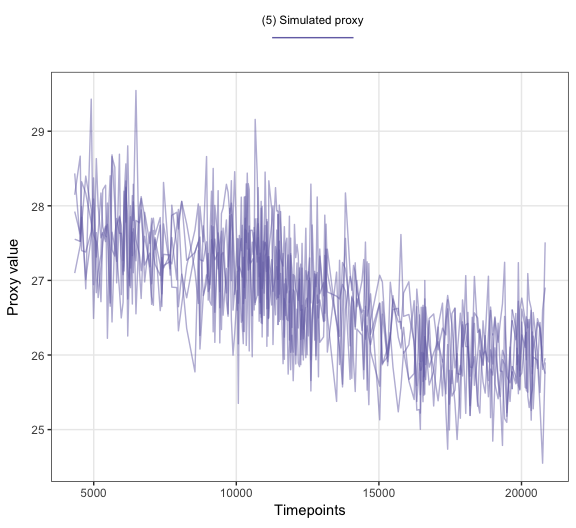
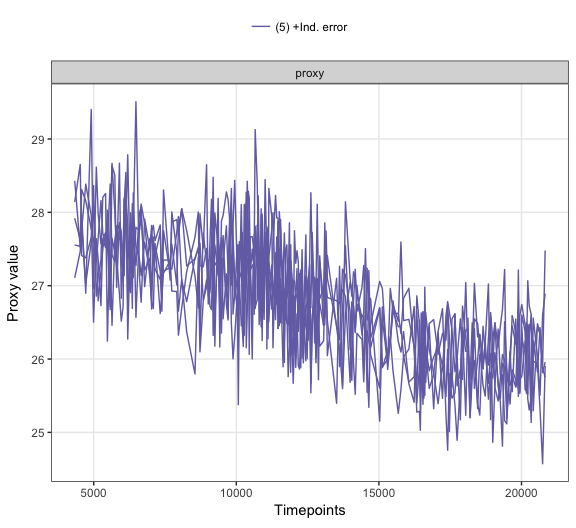
replace meas.noise with sigma.measurement and sigma.individual

diff --git a/readme.md b/readme.md
@@ -160,7 +160,9 @@ PFM <- ClimToProxyClim(clim.signal = clim.in,
                        proxy.calibration.type = "identity",
                        proxy.prod.weights = N41.G.ruber.seasonality,
                        sed.acc.rate = N41.proxy$Sed.acc.rate.cm.ka,
-                       meas.noise = 0.46, n.samples = 30,
+                       sigma.measurement = 0.45,
+                       sigma.individual = 0,
+                       n.samples = 30,
                        n.replicates = 10)
 ```
 
@@ -171,20 +173,20 @@ PFM$everything
 ```
 
 ```
-## # A tibble: 11,885 x 9
-##    timepoints replicate stage    value label  description       plot.order
-##         <dbl>     <dbl> <chr>    <dbl> <chr>  <chr>                  <dbl>
-##  1       4334      1.00 proxy.… 0.0251 (4) +… Climate signal a…       7.00
-##  2       4527      1.00 proxy.… 0.0251 (4) +… Climate signal a…       7.00
-##  3       4576      1.00 proxy.… 0.0251 (4) +… Climate signal a…       7.00
-##  4       4721      1.00 proxy.… 0.0251 (4) +… Climate signal a…       7.00
-##  5       4914      1.00 proxy.… 0.0251 (4) +… Climate signal a…       7.00
-##  6       4994      1.00 proxy.… 0.0250 (4) +… Climate signal a…       7.00
-##  7       5092      1.00 proxy.… 0.0250 (4) +… Climate signal a…       7.00
-##  8       5156      1.00 proxy.… 0.0250 (4) +… Climate signal a…       7.00
-##  9       5254      1.00 proxy.… 0.0250 (4) +… Climate signal a…       7.00
-## 10       5318      1.00 proxy.… 0.0250 (4) +… Climate signal a…       7.00
-## # ... with 11,875 more rows, and 2 more variables: plotting.colour <chr>,
+## # A tibble: 14,045 x 10
+##    timepoints replicate stage   value label description   scale plot.order
+##         <dbl>     <dbl> <chr>   <dbl> <chr> <chr>         <chr>      <dbl>
+##  1       4334      1.00 proxy… 0.0251 (4) … Climate sign… proxy       7.00
+##  2       4527      1.00 proxy… 0.0251 (4) … Climate sign… proxy       7.00
+##  3       4576      1.00 proxy… 0.0251 (4) … Climate sign… proxy       7.00
+##  4       4721      1.00 proxy… 0.0251 (4) … Climate sign… proxy       7.00
+##  5       4914      1.00 proxy… 0.0251 (4) … Climate sign… proxy       7.00
+##  6       4994      1.00 proxy… 0.0250 (4) … Climate sign… proxy       7.00
+##  7       5092      1.00 proxy… 0.0250 (4) … Climate sign… proxy       7.00
+##  8       5156      1.00 proxy… 0.0250 (4) … Climate sign… proxy       7.00
+##  9       5254      1.00 proxy… 0.0250 (4) … Climate sign… proxy       7.00
+## 10       5318      1.00 proxy… 0.0250 (4) … Climate sign… proxy       7.00
+## # ... with 14,035 more rows, and 2 more variables: plotting.colour <chr>,
 ## #   plotting.alpha <dbl>
 ```
 
@@ -194,6 +196,10 @@ PFM$everything
 ```r
 PFM$everything %>% 
   PlotPFMs(max.replicates = 1)
+```
+
+```
+## Joining, by = c("stage", "scale")
 ```
 
 ```
@@ -211,6 +217,10 @@ PFM$everything %>%
 PFM$everything %>% 
   filter(stage == "simulated.proxy") %>% 
   PlotPFMs(., max.replicates = 5)
+```
+
+```
+## Joining, by = c("stage", "scale")
 ```
 
 ```
